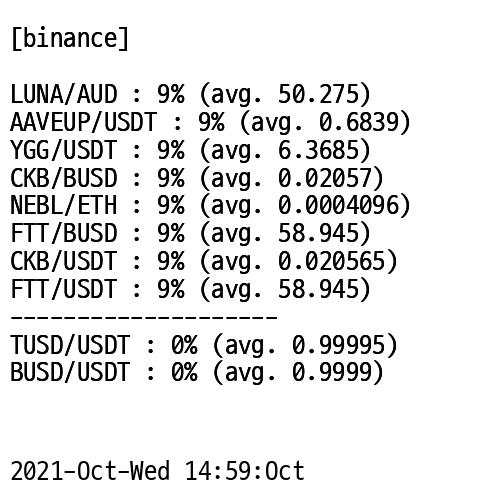
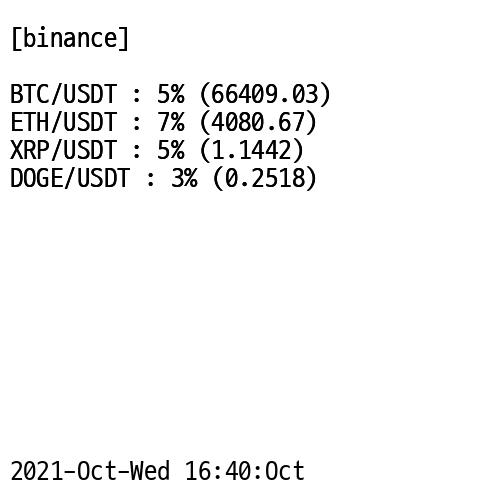
pick 추가

diff --git a/worker/today.php b/worker/today.php
@@ -20,24 +20,27 @@ if(!empty($_exchanges)) {
         echo "[LOG] analysis $exchangeId ... \n";
         $percentages = [];
         foreach($_exchange as $symbol => $data) {
-            if(!isset($data['symbol']) || !isset($data['percentage']) || !isset($data['average'])) {
+            if(!isset($data['symbol']) || !isset($data['percentage']) || !isset($data['last'])) {
                 continue;
             }
+            // if(!in_array(explode('/',$data['symbol'])[1],['USDT','KRW', 'BTC']) || strrpos($data['symbol'], 'UP') || strrpos($data['symbol'], 'DOWN')) {
+            //     continue;
+            // }
             $percentages[$data['percentage']] = $data;
         }
         $ups = $percentages;
         krsort($ups);
         $message = "\n[$exchangeId]\n\n";
-        foreach(array_splice($ups,0,8) as ['symbol'=>$symbol, 'percentage'=>$percentage, 'average'=>$average]) {
+        foreach(array_splice($ups,0,8) as ['symbol'=>$symbol, 'percentage'=>$percentage, 'last'=>$last]) {
             $percentage = (int)$percentage;
-            $message .= "$symbol : $percentage% (avg. $average)\n";
+            $message .= "$symbol : $percentage% ($last)\n";
         }
         $downs = $percentages;
         ksort($downs);
         $message .= "--------------------\n";
-        foreach(array_splice($downs,0,2) as ['symbol'=>$symbol, 'percentage'=>$percentage, 'average'=>$average]) {
+        foreach(array_splice($downs,0,2) as ['symbol'=>$symbol, 'percentage'=>$percentage, 'last'=>$last]) {
             $percentage = (int)$percentage;
-            $message .= "$symbol : $percentage% (avg. $average) \n";
+            $message .= "$symbol : $percentage% ($last) \n";
         }
         echo $message;
         // 이미지 제작

diff --git a/worker/pick.php b/worker/pick.php
@@ -1,0 +1,48 @@
+<?php
+
+$root = dirname (dirname (__FILE__));
+
+include $root . '/ccxt.php';
+include $root . '/util.php';
+
+date_default_timezone_set ('UTC');
+
+// 거래소별 파싱
+$exchanges = [new \ccxt\binance, new \ccxt\kucoin, new \ccxt\coinone];
+$_exchanges = [];
+
+$usdtSymbols = ['BTC/USDT','ETH/USDT','XRP/USDT','DOGE/USDT'];
+$krwSymbols = ['BTC/KRW','ETH/KRW','XRP/KRW','DOGE/KRW'];
+$mediaIds = [];
+foreach($exchanges as $exchange) {
+    echo "[LOG] fetch $exchange->id ... \n";
+    $symbols = $usdtSymbols;
+    if(in_array($exchange->id, ['coinone'])) {
+        $symbols = $krwSymbols;
+    }
+    $message = "\n[$exchange->id]\n\n";
+    foreach($symbols as $symbol) {
+        $tick = $exchange->fetch_ticker($symbol);
+        if(!isset($tick['symbol']) || !isset($tick['percentage']) || !isset($tick['last'])) {
+            continue;
+        }
+        ['symbol'=>$symbol, 'percentage'=>$percentage, 'last'=>$last] = $tick;
+        $percentage = (int)$percentage;
+        $message .= "$symbol : $percentage% ($last)\n";
+    }
+    echo $message;
+    // 이미지 제작
+    $file = exportImage($message, $exchange->id);
+    echo "[LOG] exportImage $file ... \n";
+    // 이미지 업로드
+    $media = twurlUploadMedia($file);
+    echo "[LOG] twurlUploadMedia $media->media_id ... \n";
+    $mediaIds[] = $media->media_id;
+}
+// 트윗
+$status = "Pick ".date('Y-M-D H:i:M');
+twurlUpdateStatus($status, $mediaIds);
+echo "[LOG] twurlUpdateStatus $status ... \n";
+echo "[LOG] Pick Done \n";
+
+?>
